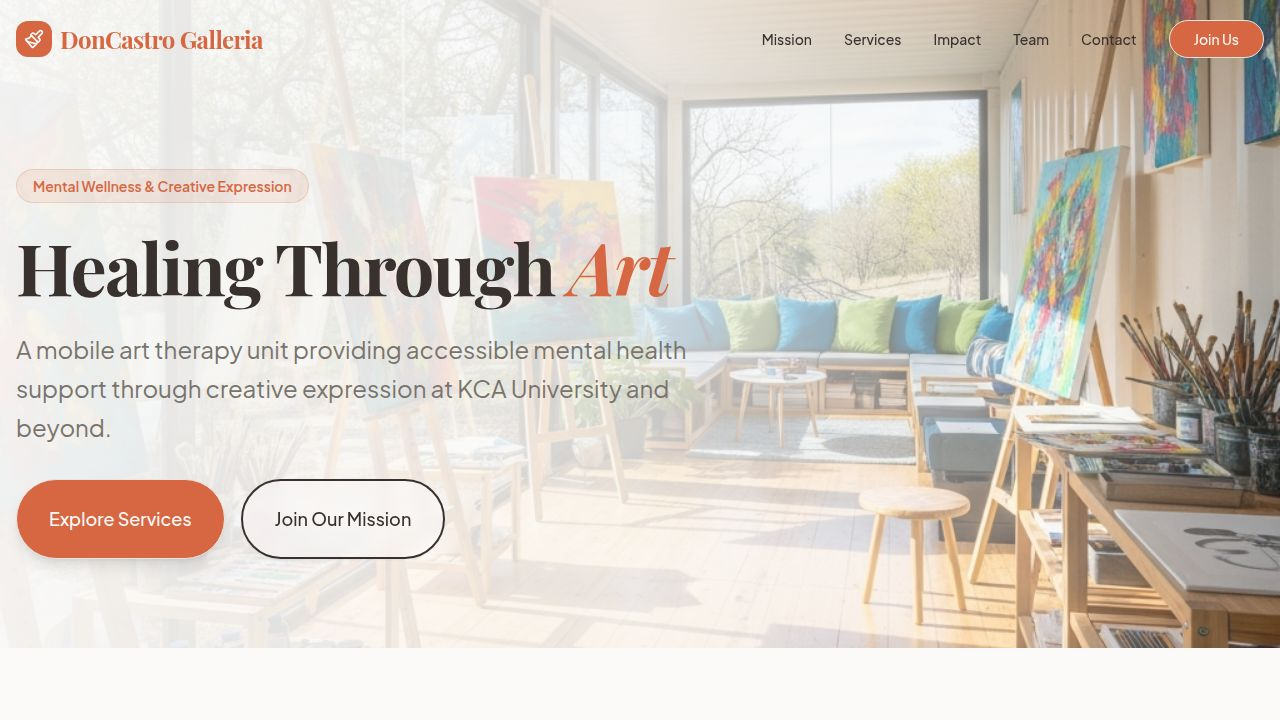
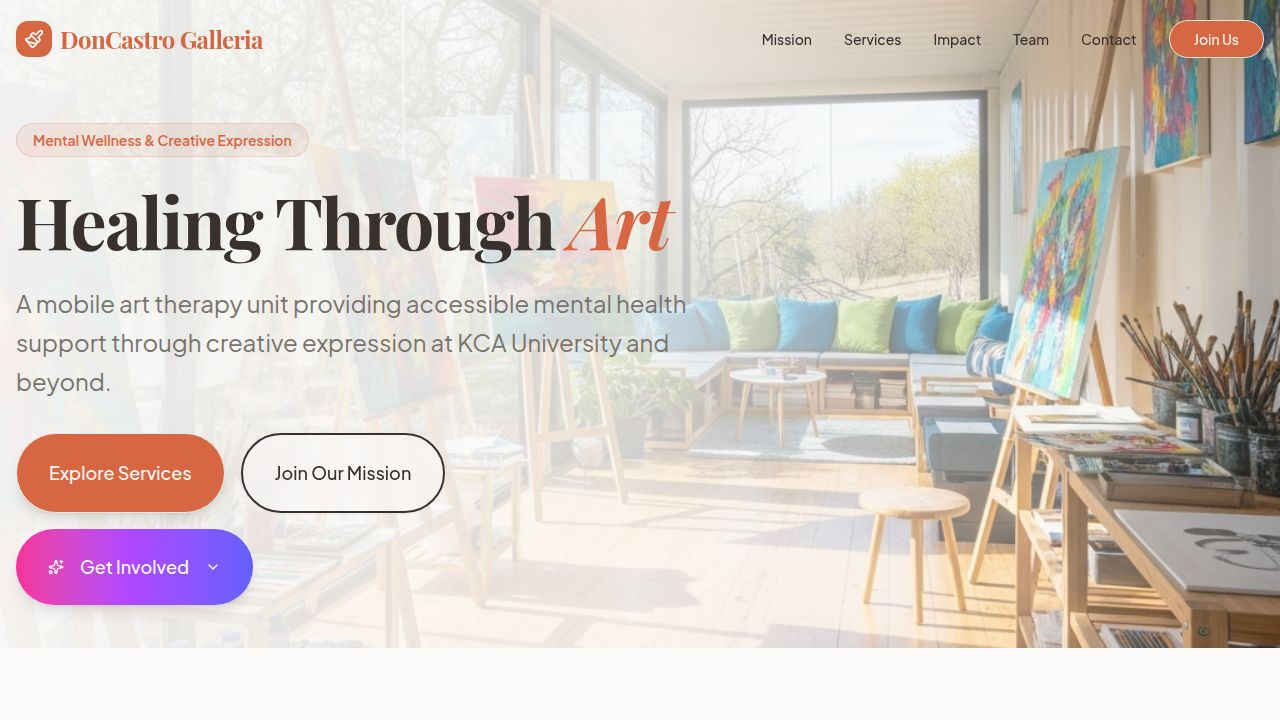
Add interactive "Get Involved" button with donation and interest dropdown
Adds a new "Get Involved" dropdown menu to the home page, featuring options for donations, therapy sessions, volunteering, partnerships, peer counseling, and general inquiries. Includes `data-testid` attributes for all new interactive elements and existing form fields.

Replit-Commit-Author: Agent
Replit-Commit-Session-Id: c2b86c52-23b0-45a6-8daf-e5367d72fbb0
Replit-Commit-Checkpoint-Type: full_checkpoint
Replit-Commit-Event-Id: 56172be9-b087-469c-924f-5d0a8b58a745
Replit-Commit-Screenshot-Url: https://storage.googleapis.com/screenshot-production-us-central1/1469f44d-cf05-4818-950b-6cc5ae360e99/c2b86c52-23b0-45a6-8daf-e5367d72fbb0/ZlMYpcM
Replit-Helium-Checkpoint-Created: true

Changed region(s): [[0.0, 0.2444, 0.5312, 0.55], [0.0, 0.5806, 0.3438, 0.8556], [0.0, 0.1833, 0.25, 0.2139]]

diff --git a/client/src/pages/home.tsx b/client/src/pages/home.tsx
@@ -6,8 +6,17 @@ import { Textarea } from "@/components/ui/textarea";
 import { 
   Palette, Activity, Gem, Hammer, Flame, SprayCan, 
   Coffee, Scissors, Layers, Box, Droplets, PenTool, 
-  Gift, Monitor, BookOpen, Users, HeartHandshake, ArrowRight 
+  Gift, Monitor, BookOpen, Users, HeartHandshake, ArrowRight,
+  Heart, HandHeart, Handshake, MessageCircle, Sparkles, ChevronDown
 } from "lucide-react";
+import {
+  DropdownMenu,
+  DropdownMenuContent,
+  DropdownMenuItem,
+  DropdownMenuLabel,
+  DropdownMenuSeparator,
+  DropdownMenuTrigger,
+} from "@/components/ui/dropdown-menu";
 import { motion } from "framer-motion";
 import { useForm } from "react-hook-form";
 import { zodResolver } from "@hookform/resolvers/zod";
@@ -144,13 +153,125 @@ export default function Home() {
             <p className="text-xl md:text-2xl text-muted-foreground mb-8 leading-relaxed">
               A mobile art therapy unit providing accessible mental health support through creative expression at KCA University and beyond.
             </p>
-            <div className="flex flex-col sm:flex-row gap-4">
+            <div className="flex flex-col sm:flex-row gap-4 flex-wrap">
               <Button size="lg" className="text-lg px-8 py-6 rounded-full shadow-lg hover:shadow-xl transition-all" onClick={() => document.getElementById('services')?.scrollIntoView({behavior: 'smooth'})} data-testid="button-explore-services">
                 Explore Services
               </Button>
               <Button size="lg" variant="outline" className="text-lg px-8 py-6 rounded-full border-2 bg-background/50 backdrop-blur-sm" onClick={() => document.getElementById('contact')?.scrollIntoView({behavior: 'smooth'})} data-testid="button-join-mission">
                 Join Our Mission
               </Button>
+              
+              <DropdownMenu>
+                <DropdownMenuTrigger asChild>
+                  <Button 
+                    size="lg" 
+                    className="text-lg px-8 py-6 rounded-full bg-gradient-to-r from-pink-500 via-purple-500 to-indigo-500 hover:from-pink-600 hover:via-purple-600 hover:to-indigo-600 shadow-lg hover:shadow-xl transition-all text-white border-0 group"
+                    data-testid="button-get-involved"
+                  >
+                    <Sparkles className="w-5 h-5 mr-2 group-hover:animate-pulse" />
+                    Get Involved
+                    <ChevronDown className="w-5 h-5 ml-2 group-hover:translate-y-0.5 transition-transform" />
+                  </Button>
+                </DropdownMenuTrigger>
+                <DropdownMenuContent 
+                  className="w-72 p-2 rounded-2xl border-2 shadow-2xl bg-card/95 backdrop-blur-md"
+                  align="center"
+                  sideOffset={8}
+                >
+                  <DropdownMenuLabel className="text-center py-3">
+                    <span className="text-lg font-bold bg-gradient-to-r from-pink-500 via-purple-500 to-indigo-500 bg-clip-text text-transparent">
+                      ✨ I'm Interested In...
+                    </span>
+                  </DropdownMenuLabel>
+                  <DropdownMenuSeparator />
+                  
+                  <DropdownMenuItem 
+                    className="flex items-center gap-3 p-3 rounded-xl cursor-pointer hover:bg-gradient-to-r hover:from-pink-50 hover:to-purple-50 dark:hover:from-pink-950/30 dark:hover:to-purple-950/30 transition-all group"
+                    onClick={() => document.getElementById('contact')?.scrollIntoView({behavior: 'smooth'})}
+                    data-testid="dropdown-donations"
+                  >
+                    <div className="w-10 h-10 rounded-full bg-gradient-to-br from-pink-400 to-rose-500 flex items-center justify-center text-white group-hover:scale-110 transition-transform">
+                      <Heart className="w-5 h-5" />
+                    </div>
+                    <div>
+                      <div className="font-semibold">💝 Donations</div>
+                      <div className="text-xs text-muted-foreground">Support our mission financially</div>
+                    </div>
+                  </DropdownMenuItem>
+                  
+                  <DropdownMenuItem 
+                    className="flex items-center gap-3 p-3 rounded-xl cursor-pointer hover:bg-gradient-to-r hover:from-blue-50 hover:to-cyan-50 dark:hover:from-blue-950/30 dark:hover:to-cyan-950/30 transition-all group"
+                    onClick={() => document.getElementById('contact')?.scrollIntoView({behavior: 'smooth'})}
+                    data-testid="dropdown-therapy"
+                  >
+                    <div className="w-10 h-10 rounded-full bg-gradient-to-br from-blue-400 to-cyan-500 flex items-center justify-center text-white group-hover:scale-110 transition-transform">
+                      <Palette className="w-5 h-5" />
+                    </div>
+                    <div>
+                      <div className="font-semibold">🎨 Attending Therapy Sessions</div>
+                      <div className="text-xs text-muted-foreground">Join our art therapy programs</div>
+                    </div>
+                  </DropdownMenuItem>
+                  
+                  <DropdownMenuItem 
+                    className="flex items-center gap-3 p-3 rounded-xl cursor-pointer hover:bg-gradient-to-r hover:from-green-50 hover:to-emerald-50 dark:hover:from-green-950/30 dark:hover:to-emerald-950/30 transition-all group"
+                    onClick={() => document.getElementById('contact')?.scrollIntoView({behavior: 'smooth'})}
+                    data-testid="dropdown-volunteer"
+                  >
+                    <div className="w-10 h-10 rounded-full bg-gradient-to-br from-green-400 to-emerald-500 flex items-center justify-center text-white group-hover:scale-110 transition-transform">
+                      <HandHeart className="w-5 h-5" />
+                    </div>
+                    <div>
+                      <div className="font-semibold">🙌 Becoming a Volunteer</div>
+                      <div className="text-xs text-muted-foreground">Give your time and skills</div>
+                    </div>
+                  </DropdownMenuItem>
+                  
+                  <DropdownMenuItem 
+                    className="flex items-center gap-3 p-3 rounded-xl cursor-pointer hover:bg-gradient-to-r hover:from-amber-50 hover:to-orange-50 dark:hover:from-amber-950/30 dark:hover:to-orange-950/30 transition-all group"
+                    onClick={() => document.getElementById('contact')?.scrollIntoView({behavior: 'smooth'})}
+                    data-testid="dropdown-partnerships"
+                  >
+                    <div className="w-10 h-10 rounded-full bg-gradient-to-br from-amber-400 to-orange-500 flex items-center justify-center text-white group-hover:scale-110 transition-transform">
+                      <Handshake className="w-5 h-5" />
+                    </div>
+                    <div>
+                      <div className="font-semibold">🤝 Partnership Opportunities</div>
+                      <div className="text-xs text-muted-foreground">Collaborate with us</div>
+                    </div>
+                  </DropdownMenuItem>
+                  
+                  <DropdownMenuItem 
+                    className="flex items-center gap-3 p-3 rounded-xl cursor-pointer hover:bg-gradient-to-r hover:from-violet-50 hover:to-purple-50 dark:hover:from-violet-950/30 dark:hover:to-purple-950/30 transition-all group"
+                    onClick={() => document.getElementById('contact')?.scrollIntoView({behavior: 'smooth'})}
+                    data-testid="dropdown-peer-counsellor"
+                  >
+                    <div className="w-10 h-10 rounded-full bg-gradient-to-br from-violet-400 to-purple-500 flex items-center justify-center text-white group-hover:scale-110 transition-transform">
+                      <Users className="w-5 h-5" />
+                    </div>
+                    <div>
+                      <div className="font-semibold">👥 Become a Peer Counsellor</div>
+                      <div className="text-xs text-muted-foreground">Train to support others</div>
+                    </div>
+                  </DropdownMenuItem>
+                  
+                  <DropdownMenuSeparator />
+                  
+                  <DropdownMenuItem 
+                    className="flex items-center gap-3 p-3 rounded-xl cursor-pointer hover:bg-muted/50 transition-all group"
+                    onClick={() => document.getElementById('contact')?.scrollIntoView({behavior: 'smooth'})}
+                    data-testid="dropdown-general-inquiry"
+                  >
+                    <div className="w-10 h-10 rounded-full bg-gradient-to-br from-slate-400 to-slate-500 flex items-center justify-center text-white group-hover:scale-110 transition-transform">
+                      <MessageCircle className="w-5 h-5" />
+                    </div>
+                    <div>
+                      <div className="font-semibold">💬 General Inquiry</div>
+                      <div className="text-xs text-muted-foreground">Have questions? Ask us anything</div>
+                    </div>
+                  </DropdownMenuItem>
+                </DropdownMenuContent>
+              </DropdownMenu>
             </div>
           </motion.div>
         </div>
